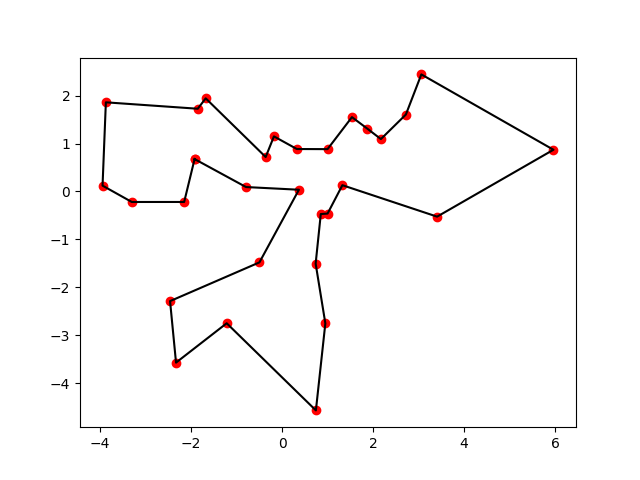
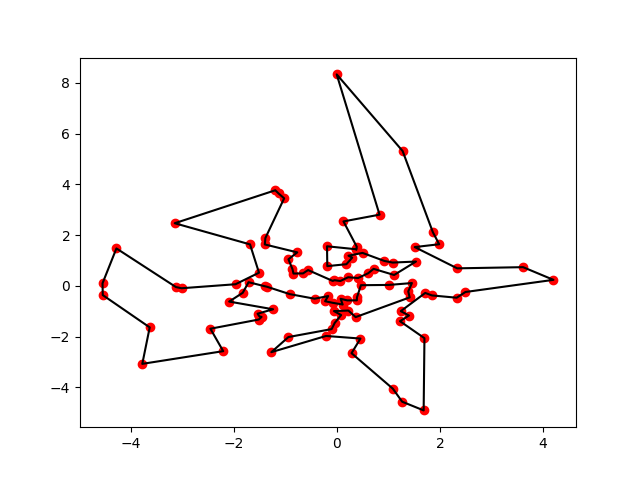
TSP

diff --git a/examples/tsp.py b/examples/tsp.py
@@ -28,7 +28,7 @@ def oracle(seq):
 
 
 if __name__ == '__main__':
-    n = 30
+    n = 100
 
     data = np.random.logistic(size=(n, 2))
 
